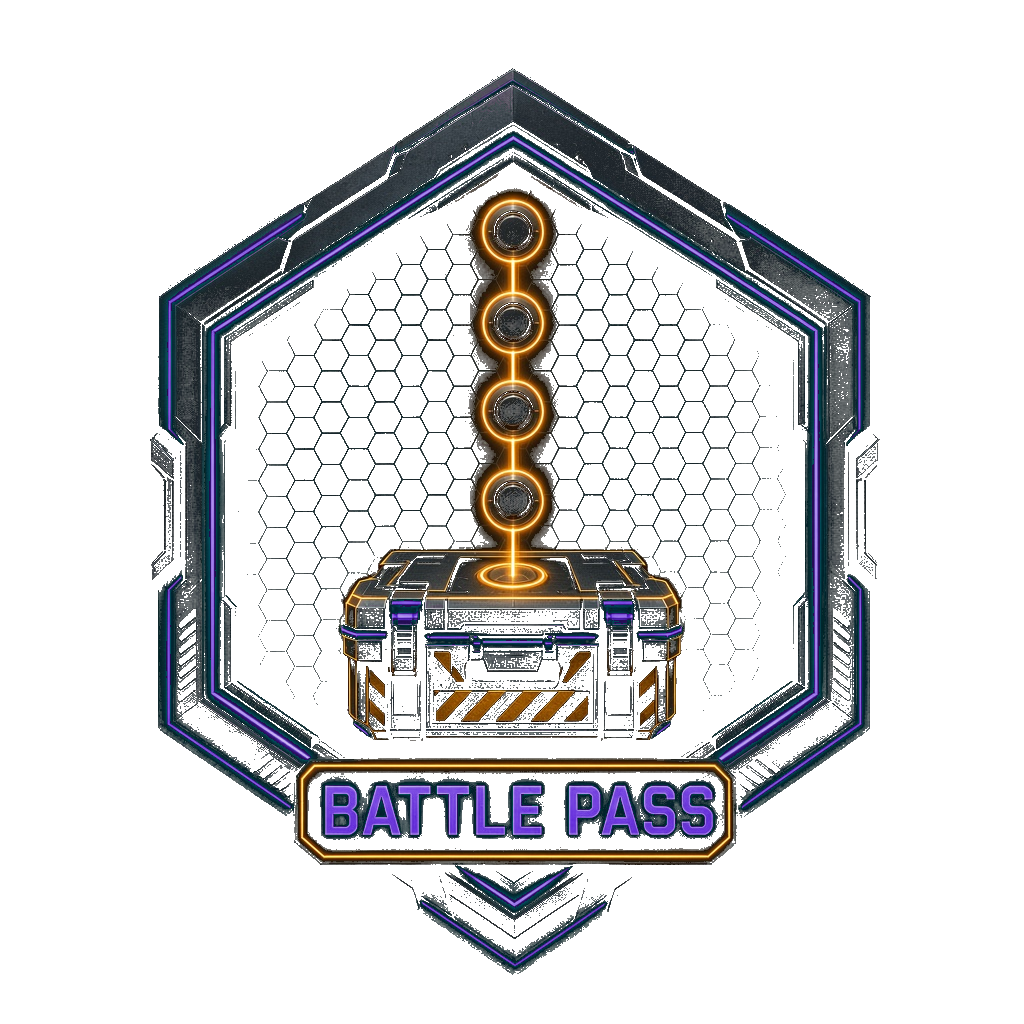
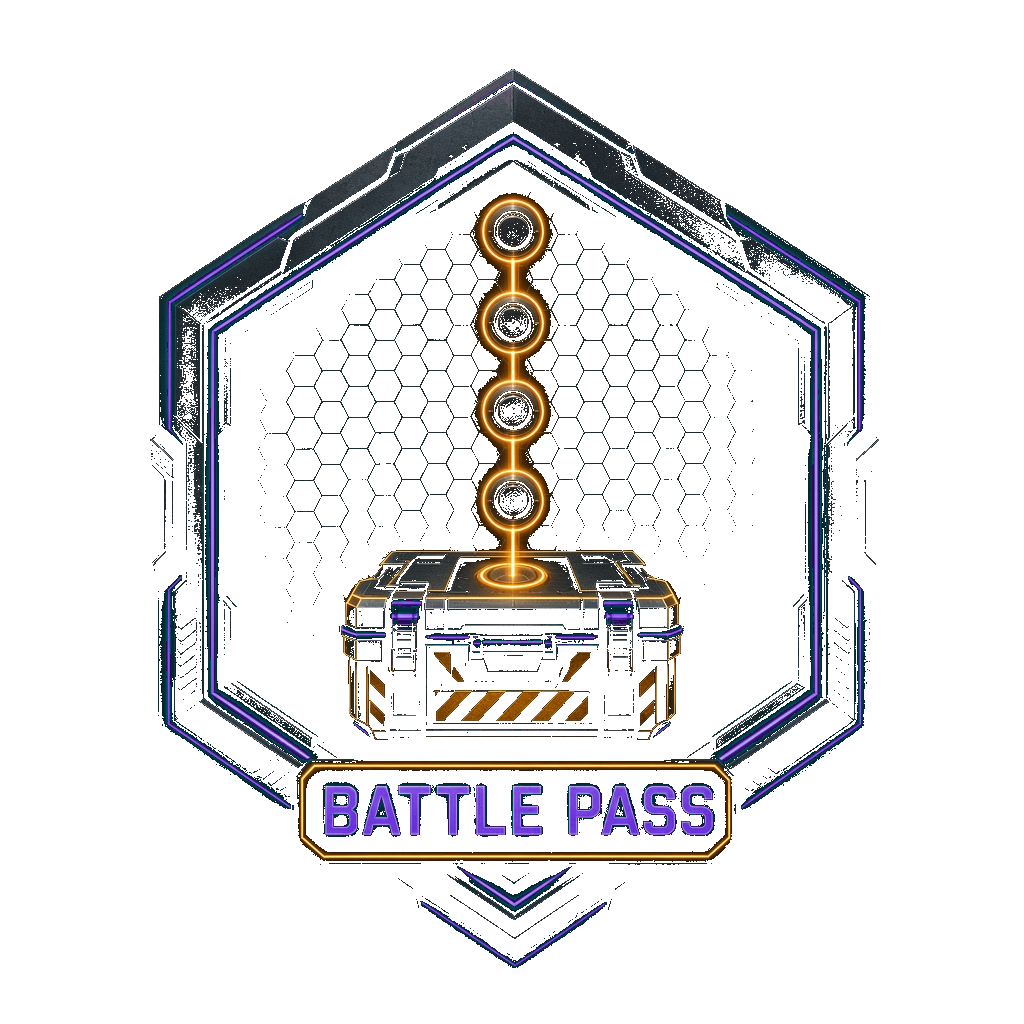
Clean dark fringe artifacts from home hub tile art.

Changed region(s): [[0.125, 0.125, 0.875, 0.9688], [0.3438, 0.5312, 0.4062, 0.5625], [0.3125, 0.2188, 0.375, 0.25]]

diff --git a/src/components/HomeHub.tsx b/src/components/HomeHub.tsx
@@ -52,7 +52,7 @@ export function HomeHub({ showCw, cwCards }: Props) {
             <span
               className="home-hub-tile-art"
               aria-hidden="true"
-              style={{ backgroundImage: `url(${tile.image}?v=plate1)` }}
+              style={{ backgroundImage: `url(${tile.image}?v=plate2)` }}
             />
           </Link>
         ))}
